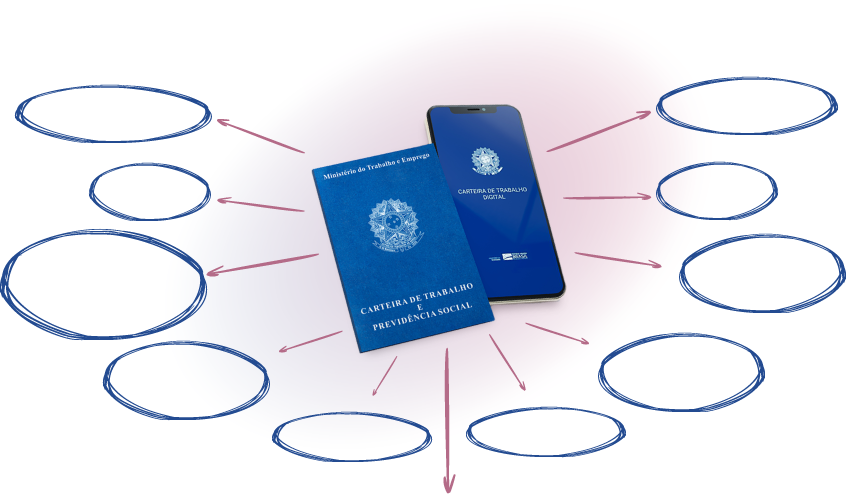
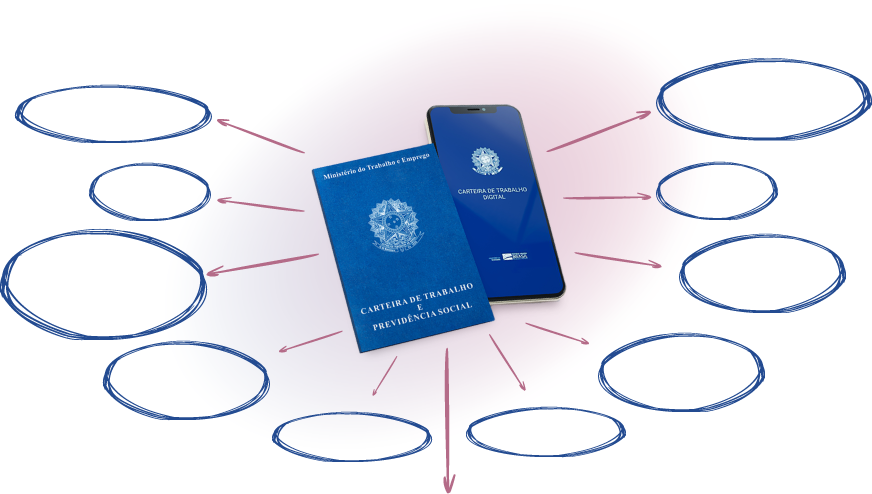
ajustes

diff --git a/01_beneficios/css/custom.css b/01_beneficios/css/custom.css
@@ -170,41 +170,41 @@ body{
     top: 104px;
     left: 28px;
 }
-.infografico02 span.texto02{
-    top: 182px;
-    left: 64px;
+.infografico02 span.texto02 {
+    top: 178px;
+    left: 58px;
 }
-.infografico02 span.texto03{
-    top: 260px;
-    right: 0px;
+.infografico02 span.texto03 {
+    top: 252px;
+    right: 19px;
 }
-.infografico02 span.texto04{
-    top: 364px;
+.infografico02 span.texto04 {
+    top: 354px;
     left: 100px;
 }
-.infografico02 span.texto05{
-    top: 428px;
-    left: 265px;
+.infografico02 span.texto05 {
+    top: 415px;
+    left: 260px;
 }
-.infografico02 span.texto06{
-    top: 258px;
+.infografico02 span.texto06 {
+    top: 252px;
     left: 16px;
 }
-.infografico02 span.texto07{
-    top: 88px;
+.infografico02 span.texto07 {
+    top: 78px;
     right: 13px;
 }
-.infografico02 span.texto08{
-    top: 424px;
-    right: 217px;
+.infografico02 span.texto08 {
+    top: 409px;
+    right: 225px;
 }
-.infografico02 span.texto09{
-    top: 182px;
-    right: 45px;
+.infografico02 span.texto09 {
+    top: 178px;
+    right: 61px;
 }
-.infografico02 span.texto10{
-    top: 357px;
-    right: 80px;
+.infografico02 span.texto10 {
+    top: 344px;
+    right: 92px;
 }
 
 .info-destaque{
